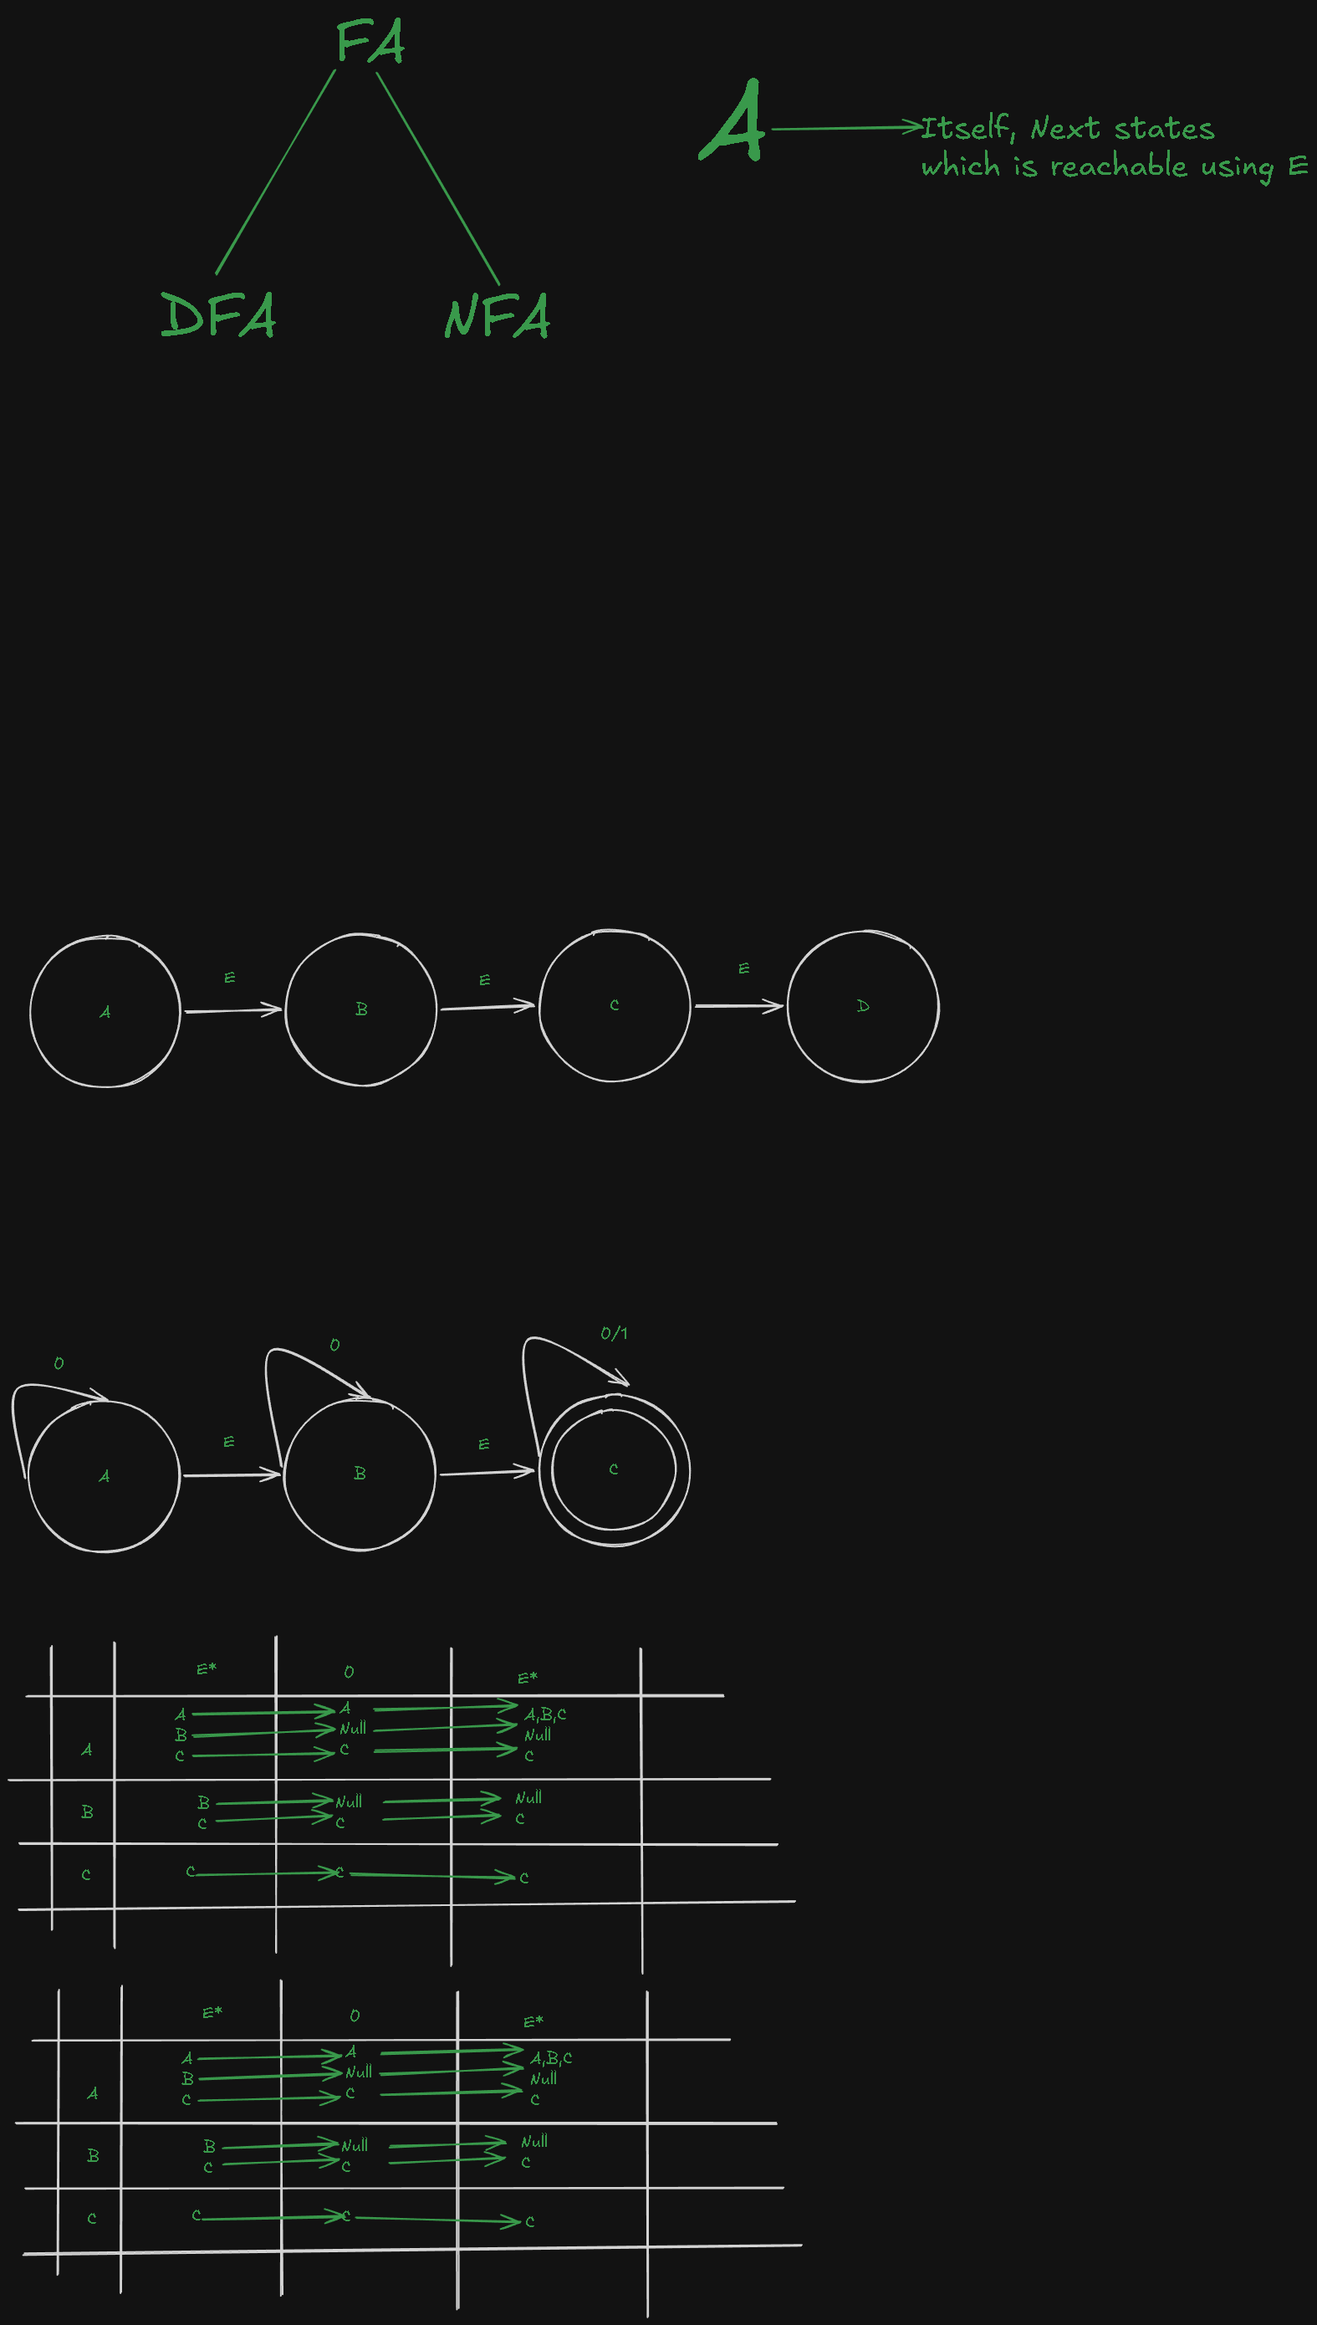
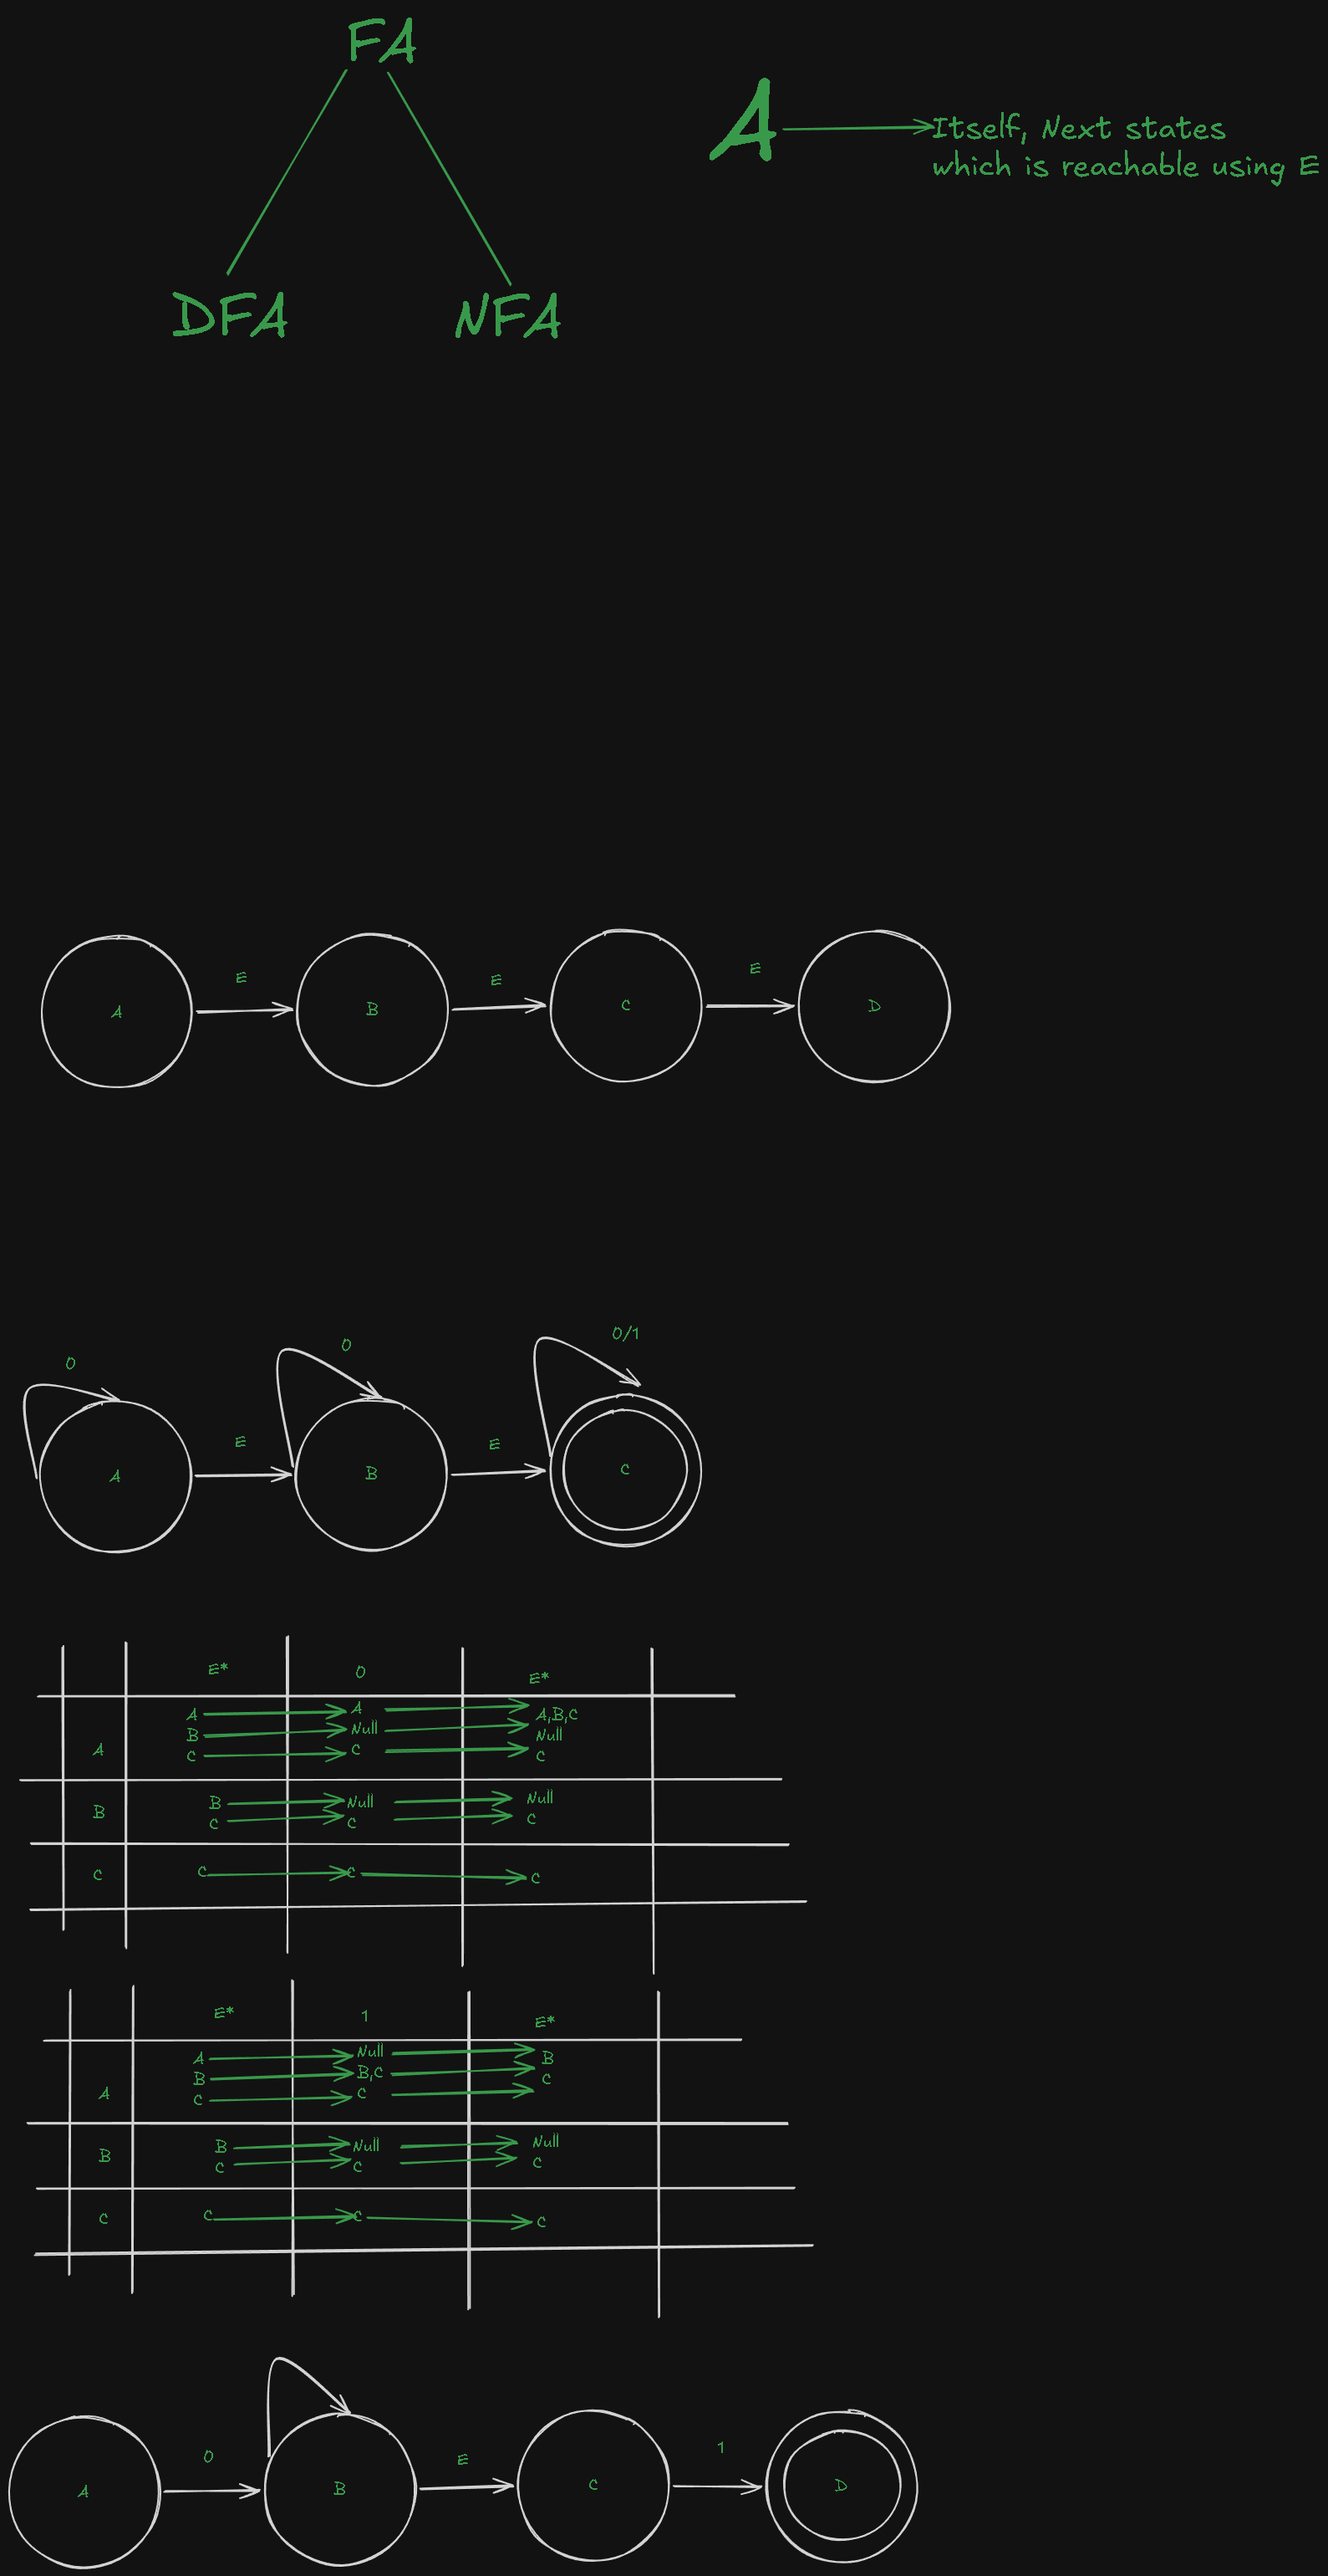
vault backup: 2026-08-14 08:47:31

diff --git a/Excalidraw/Drawing 2026-08-14 08.13.14.excalidraw.md b/Excalidraw/Drawing 2026-08-14 08.13.14.excalidraw.md
@@ -132,6 +132,22 @@ C ^B24ucXGh
 Null 
 C ^HoCbjxwH
 
+A ^kTSTkb9y
+
+B ^r21Ivxnk
+
+C ^xfVEJEwo
+
+D ^SJpZEbfj
+
+0 ^0xx362oo
+
+E ^wtBd2XmN
+
+1 ^kAiGxlrH
+
+0 ^FHG2eacN
+
 %%
 ## Drawing
 ```compressed-json
@@ -403,12 +419,48 @@ ODdGNF4FLpZZNeKBXImWXy0DYSnmjt4zPKnIJr8eHPf10kKcr7Z7qcNlXacOXcvQqwOnZ7YN7lctLVk7
 
[1 lines of base64/hex data omitted]
 
[2 lines of base64/hex data omitted]
 
[2 lines of base64/hex data omitted]
 
[2 lines of base64/hex data omitted]
 
[2 lines of base64/hex data omitted]
+
[1 lines of base64/hex data omitted]
+
[1 lines of base64/hex data omitted]
+
[1 lines of base64/hex data omitted]
+
[1 lines of base64/hex data omitted]
+
[1 lines of base64/hex data omitted]
+
[1 lines of base64/hex data omitted]
+
[1 lines of base64/hex data omitted]
+
[1 lines of base64/hex data omitted]
+
[1 lines of base64/hex data omitted]
+
[1 lines of base64/hex data omitted]
+
[1 lines of base64/hex data omitted]
+
[1 lines of base64/hex data omitted]
+
[1 lines of base64/hex data omitted]
+
[1 lines of base64/hex data omitted]
+
[1 lines of base64/hex data omitted]
+
[1 lines of base64/hex data omitted]
+
[1 lines of base64/hex data omitted]
+
[1 lines of base64/hex data omitted]
 ```
 %%
